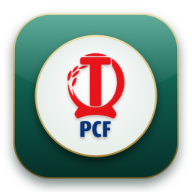
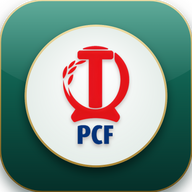
Biểu tượng ứng dụng: ô xanh sát mép khung để điện thoại không hiện khung trắng bao quanh (bản 1.0.18)
- icons/icon-192.png, icon-512.png (purpose "any", mẫu B): cắt sát mép ô xanh (viền vàng sát mép, bốn góc vẫn bo trong suốt cho máy tính), bỏ viền trong suốt ~7% và bóng đổ ngoài ô. Trước đó, khi điện thoại đặt icon "any" lên nền trắng của màn hình chính thì viền trong suốt hiện thành khung trắng bao ô xanh
- Icon maskable và apple-touch-icon giữ nguyên
- manifest.json, index.html (icon tab), installBtn.js (ảnh thẻ mời cài): ?v=2 -> ?v=3 để trình duyệt tải icon mới, app đã cài tự cập nhật
- Tài liệu mục 10.118 và docs/dong-goi-android.md; 231/231 kiểm thử đạt

Claude-Session: https://claude.ai/code/session_01J8p6GLpewuf1VMkA2DJGQC

diff --git a/index.html b/index.html
@@ -12,7 +12,7 @@
      (không phải data URI): nhiều công cụ đóng gói app Android (VD:
      PWABuilder) và iOS Safari "Thêm vào MH chính" cần file ảnh thật.
      Xem docs/dong-goi-android.md -->
-<link rel="icon" type="image/png" href="icons/icon-192.png?v=2">
+<link rel="icon" type="image/png" href="icons/icon-192.png?v=3">
 <link rel="apple-touch-icon" href="icons/apple-touch-icon.png?v=2">
 <!-- Font Inter (nhãn nhỏ, số trong bảng) và Source Serif 4 (tiêu đề, tên mục, số lớn — chữ có chân, số đều hàng trên mọi máy). display=swap nên không chặn hiển thị, lỗi mạng thì tự dùng font hệ thống. -->
 <link rel="preconnect" href="https://fonts.googleapis.com">

diff --git a/js/components/installBtn.js b/js/components/installBtn.js
@@ -148,7 +148,7 @@ function showInstallBanner(onGo, onLater) {
   bannerEl.setAttribute('aria-label', 'Cài đặt ứng dụng');
   bannerEl.innerHTML = `
     <div class="inst-banner-top">
-      <img class="inst-banner-ic" src="icons/icon-192.png?v=2" alt="" width="44" height="44">
+      <img class="inst-banner-ic" src="icons/icon-192.png?v=3" alt="" width="44" height="44">
       <div class="inst-banner-tx"><b>Cài ứng dụng QTD Bình Nguyên</b><span>Mở nhanh từ màn hình chính, nhận thông báo</span></div>
     </div>
     <div class="inst-banner-act">

diff --git a/js/version.js b/js/version.js
@@ -1,1 +1,1 @@
-export const APP_VERSION = '1.0.17';
+export const APP_VERSION = '1.0.18';

diff --git a/docs/supabase-migration.md b/docs/supabase-migration.md
@@ -3668,6 +3668,14 @@ Kiểm tra: `select jobid, jobname, schedule, active, left(command, 80) as lenh 
 - Tiện sửa: nút tròn **Nạp cân đối** không còn bị đổi thành chữ "Nạp cân đối" sau khi kiểm tra file hoặc bấm Hủy (`previewImport` trước đây ghi đè biểu tượng bằng chữ; nay khôi phục đúng biểu tượng).
 - Mã: `js/lib/balanceSheet.js`, `js/lib/balanceSheetMetrics.js` (`loanTermChildren`; tham số `showZero` giữ cả loại bằng 0, dùng cho cửa sổ kiểm tra), `js/views/admin/balanceSheet.js` (`assetItems`, `loanTermImportRows`); bài thử 5 bài trong `tests/balanceSheet.test.mjs` (gồm bài kiểm tra 2111 / 2112 / 2113 không bị đọc thành kỳ hạn) và 1 bài trong `tests/balanceSheetMetrics.test.mjs` (loại bằng 0 thì ẩn). Phiên bản 1.0.17.
 
+### 10.118 Biểu tượng ứng dụng: bỏ khung trắng quanh ô xanh trên màn hình chính điện thoại (chỉ cập nhật web — KHÔNG cần SQL, KHÔNG cần deploy)
+
+- **Hiện tượng**: trên một số điện thoại (ví dụ Samsung), icon "QTD Bình Nguyên" hiện ô xanh nằm giữa một khung trắng bo góc (trông như ảnh dán trong khung).
+- **Nguyên nhân**: icon `purpose: any` (`icons/icon-192.png`, `icons/icon-512.png`, mẫu B từ 21/10, mục "Icon app mới") chừa viền trong suốt khoảng 7% quanh ô xanh (chỗ đổ bóng). Khi điện thoại hoặc trình duyệt không dùng bản tràn viền `maskable` mà đặt icon `any` lên nền trắng của màn hình chính thì viền trong suốt đó hiện thành khung trắng.
+- **Đã sửa**: `icon-192.png` và `icon-512.png` được cắt sát mép ô xanh (viền vàng sát mép khung, bốn góc vẫn bo trong suốt cho máy tính) nên ô xanh phủ kín khung trắng của điện thoại; không còn đổ bóng ngoài ô. Icon `maskable` và `apple-touch-icon` không đổi. Đường dẫn icon trong `manifest.json`, `index.html` (icon tab) và `js/components/installBtn.js` (ảnh trong thẻ mời cài) đổi `?v=2` → `?v=3` để trình duyệt tải icon mới. Phiên bản 1.0.18.
+- **Máy đã cài**: ứng dụng cài bằng Chrome (WebAPK) tự cập nhật icon khi trình duyệt kiểm tra lại (thường 1–3 ngày sau khi mở app); lối tắt tạo bằng trình duyệt khác (Samsung Internet, Cốc Cốc, Firefox…) thì xóa icon cũ rồi cài lại. Máy tính: icon đổi ở lần mở app tiếp theo.
+- **Quay lại logo PCF nền trắng như trước ngày 21/10**: file cũ còn trong git (`git show 288969e~1:icons/icon-192.png` và `icon-512.png`); `icons/logo-pcf.png` vẫn là logo gốc.
+
 ---
 
 *Tài liệu hướng dẫn — code triển khai thật đã có trong repo này (`js/state.js`, `js/lib/`,

diff --git a/docs/dong-goi-android.md b/docs/dong-goi-android.md
@@ -8,7 +8,7 @@ kiểu lập trình Android truyền thống** (không cần Android Studio/Java
 | **1. Thêm vào Màn hình chính** | Chrome tự đóng gói tạm, mở như app (toàn màn hình, có icon riêng) | **Không cần làm gì thêm — dùng được ngay hôm nay** | Không — chỉ là lối tắt, vẫn cần vào lại trang web mỗi lần dùng (có mạng) |
 | **2. File APK cài thật** | Đóng gói thành APK thật, cài như app tải từ Play Store | Dùng công cụ **PWABuilder** (miễn phí, không cần biết code) — ~15 phút | Có — file `.apk` gửi qua Zalo/USB để cài trực tiếp, hoặc đăng lên Google Play |
 
-App đã có sẵn `manifest.json` + icon PNG chuẩn (`icons/icon-192.png`, `icons/icon-512.png` bo góc kiểu 3D; `icons/icon-maskable-*.png` cho Android; `icons/apple-touch-icon.png` cho iPhone) —
+App đã có sẵn `manifest.json` + icon PNG chuẩn (`icons/icon-192.png`, `icons/icon-512.png` bo góc kiểu 3D, ô xanh sát mép khung để điện thoại không hiện khung trắng; `icons/icon-maskable-*.png` cho Android; `icons/apple-touch-icon.png` cho iPhone) —
 điều kiện bắt buộc cho cả 2 mức đều đã đủ, không cần chuẩn bị gì thêm trước khi làm theo bên dưới.
 
 ## Mức 1 — Thêm vào Màn hình chính (dùng ngay, khuyên dùng trước)
